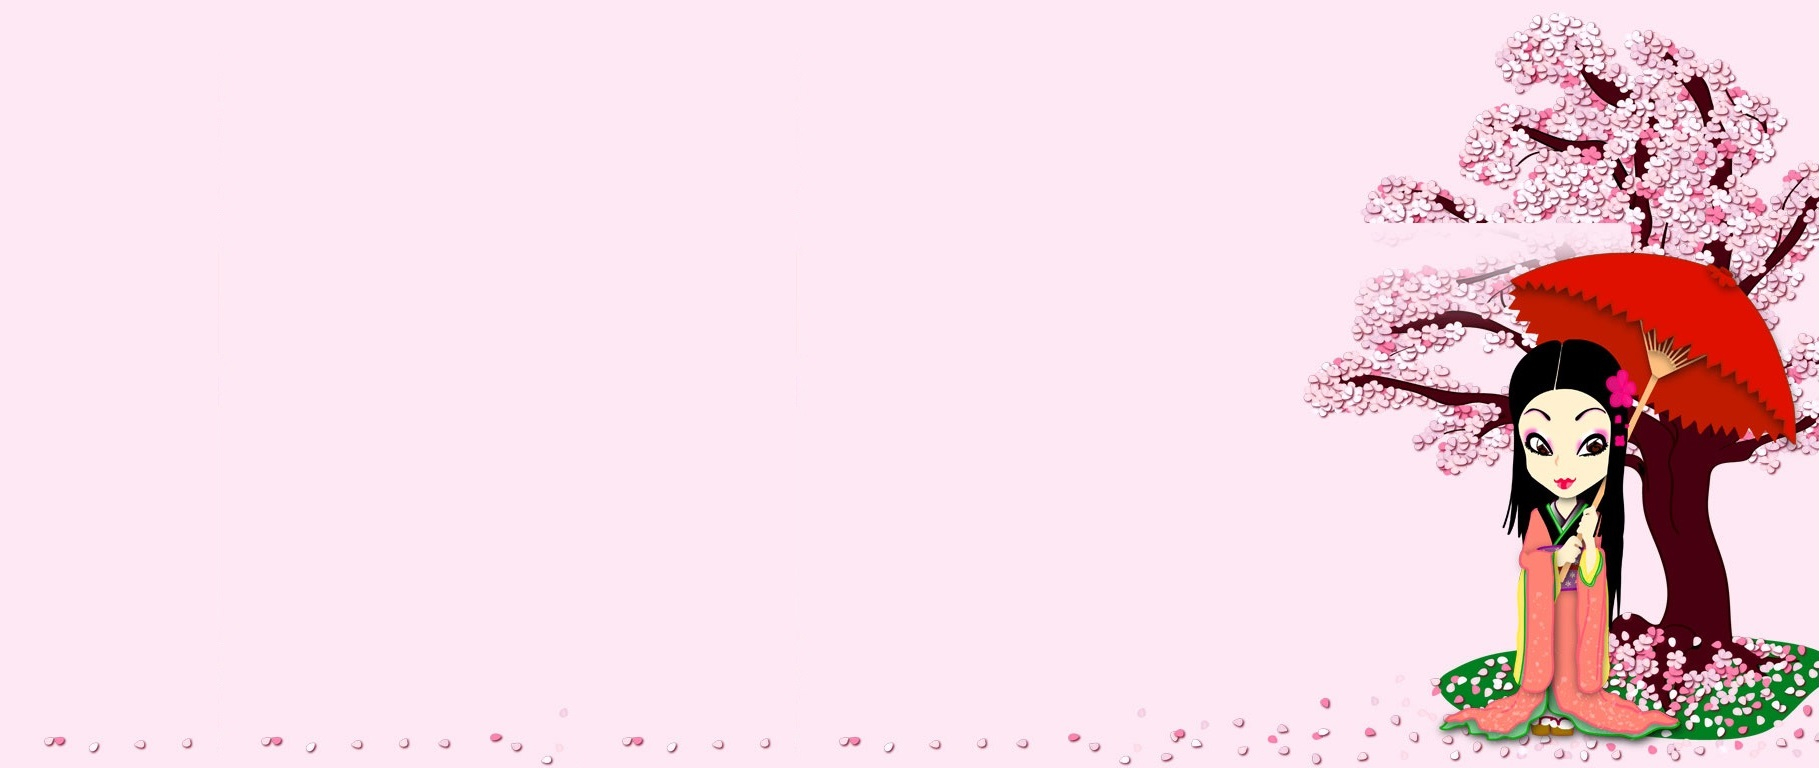
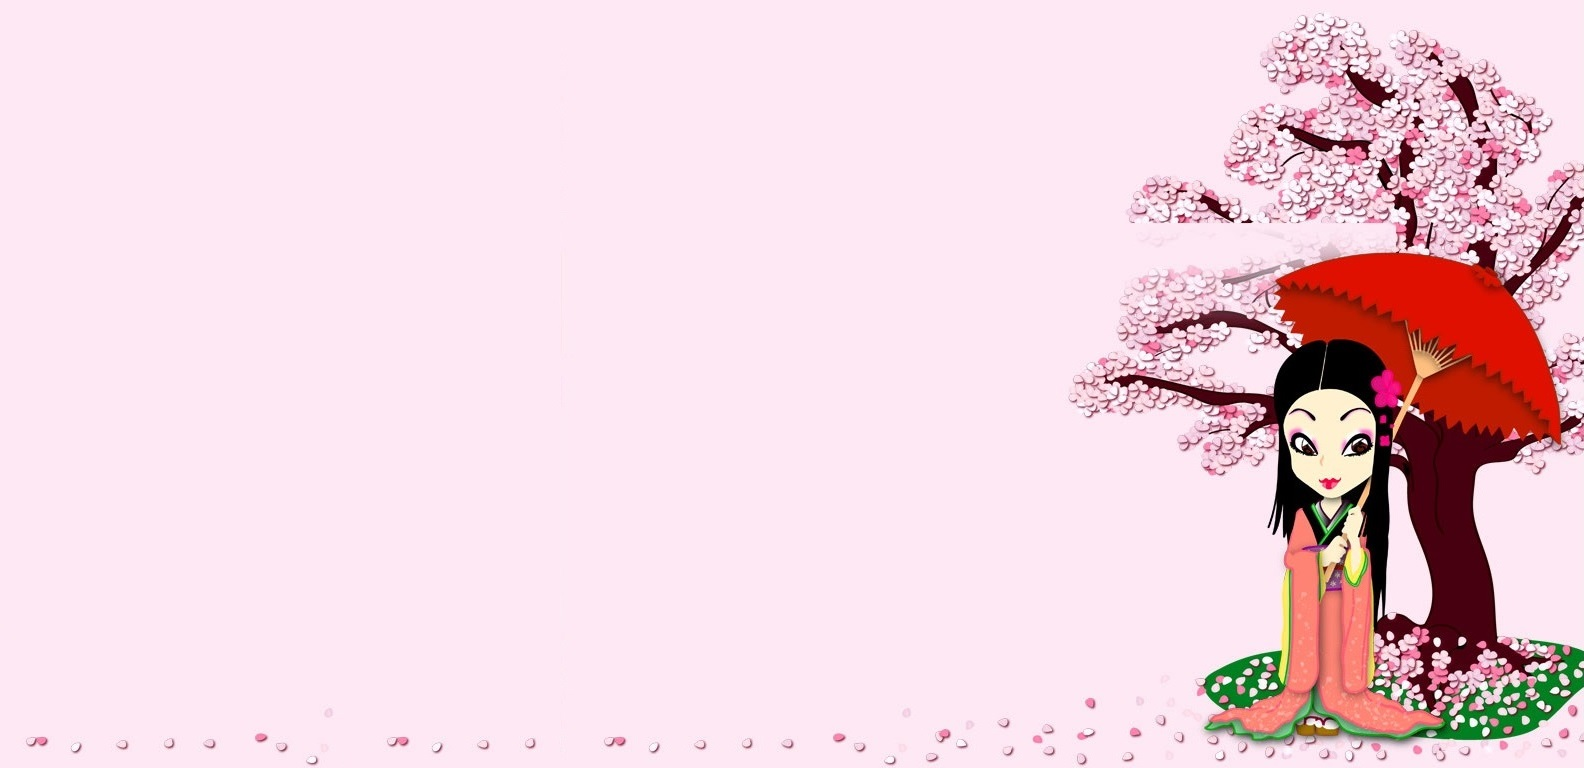
Department Message
* Visible for screen > 980px

diff --git a/index.html b/index.html
@@ -81,10 +81,12 @@
     	<div id="slidecaption">
             <div class="slide-content">日本語 Japanese <br/> at Lehman, CUNY</div>
         </div>
-        <div class="slide-text">
+        <div class="slide-text slide-text-jp">
             日本語クラスのホームページへようこそ！
             <br />
             <br />
+        </div>
+        <div class="slide-text">
             Welcome to the Japanese Language Program Homepage!
 
             Whether you are interested in manga and anime, studying economics, love eating sushi, or you want to be a creator of video games, you will enjoy studying Japanese at Lehman College. Learning a language that is so different from English might seem intimidating, but we make it fun and interesting. In class you will learn important cultural lessons as well as grammar and vocabulary to communicate with Japanese speakers. You will gain access and insight to Japanese culture that has become part of international culture and your everyday life. Japan might be a small country, but it's where all things "cool" and "cute" come from.

diff --git a/resources/supersized.css b/resources/supersized.css
@@ -16,7 +16,7 @@ img { border:none; }
 #supersized-loader { position:absolute; top:50%; left:50%; z-index:0; width:60px; height:60px; margin:-30px 0 0 -30px; text-indent:-999em; background:url(../img/progress.gif) no-repeat center center;}
 
 #supersized {  display:block; position:fixed; left:0; top:0; overflow:hidden; z-index:-1; height:100%; width:100%; margin:0; padding:0; }
-#supersized img { width:100%; height:100%; position:relative; display:none; outline:none; border:none; }
+#supersized img { width:auto; height:auto; position:relative; display:none; outline:none; border:none; }
 #supersized.speed img { -ms-interpolation-mode:nearest-neighbor; image-rendering: -moz-crisp-edges; }	/*Speed*/
 #supersized.quality img { -ms-interpolation-mode:bicubic; image-rendering: optimizeQuality; }			/*Quality*/
 

diff --git a/resources/main.css b/resources/main.css
@@ -340,10 +340,15 @@ h3.spec {
 }
 
 #home-slider .slide-text {
-	font-size: 25px;
+	font-size: 20px;
 	color: #7f0024;
-	letter-spacing: -1px;
-	text-align: left;	
+	letter-spacing: 0px;
+	text-align: justify;
+	padding-right: 180px;	
+}
+
+#home-slider .slide-text-jp {
+	font-size: 25px;	
 }
 
 #home-slider .control-nav {
